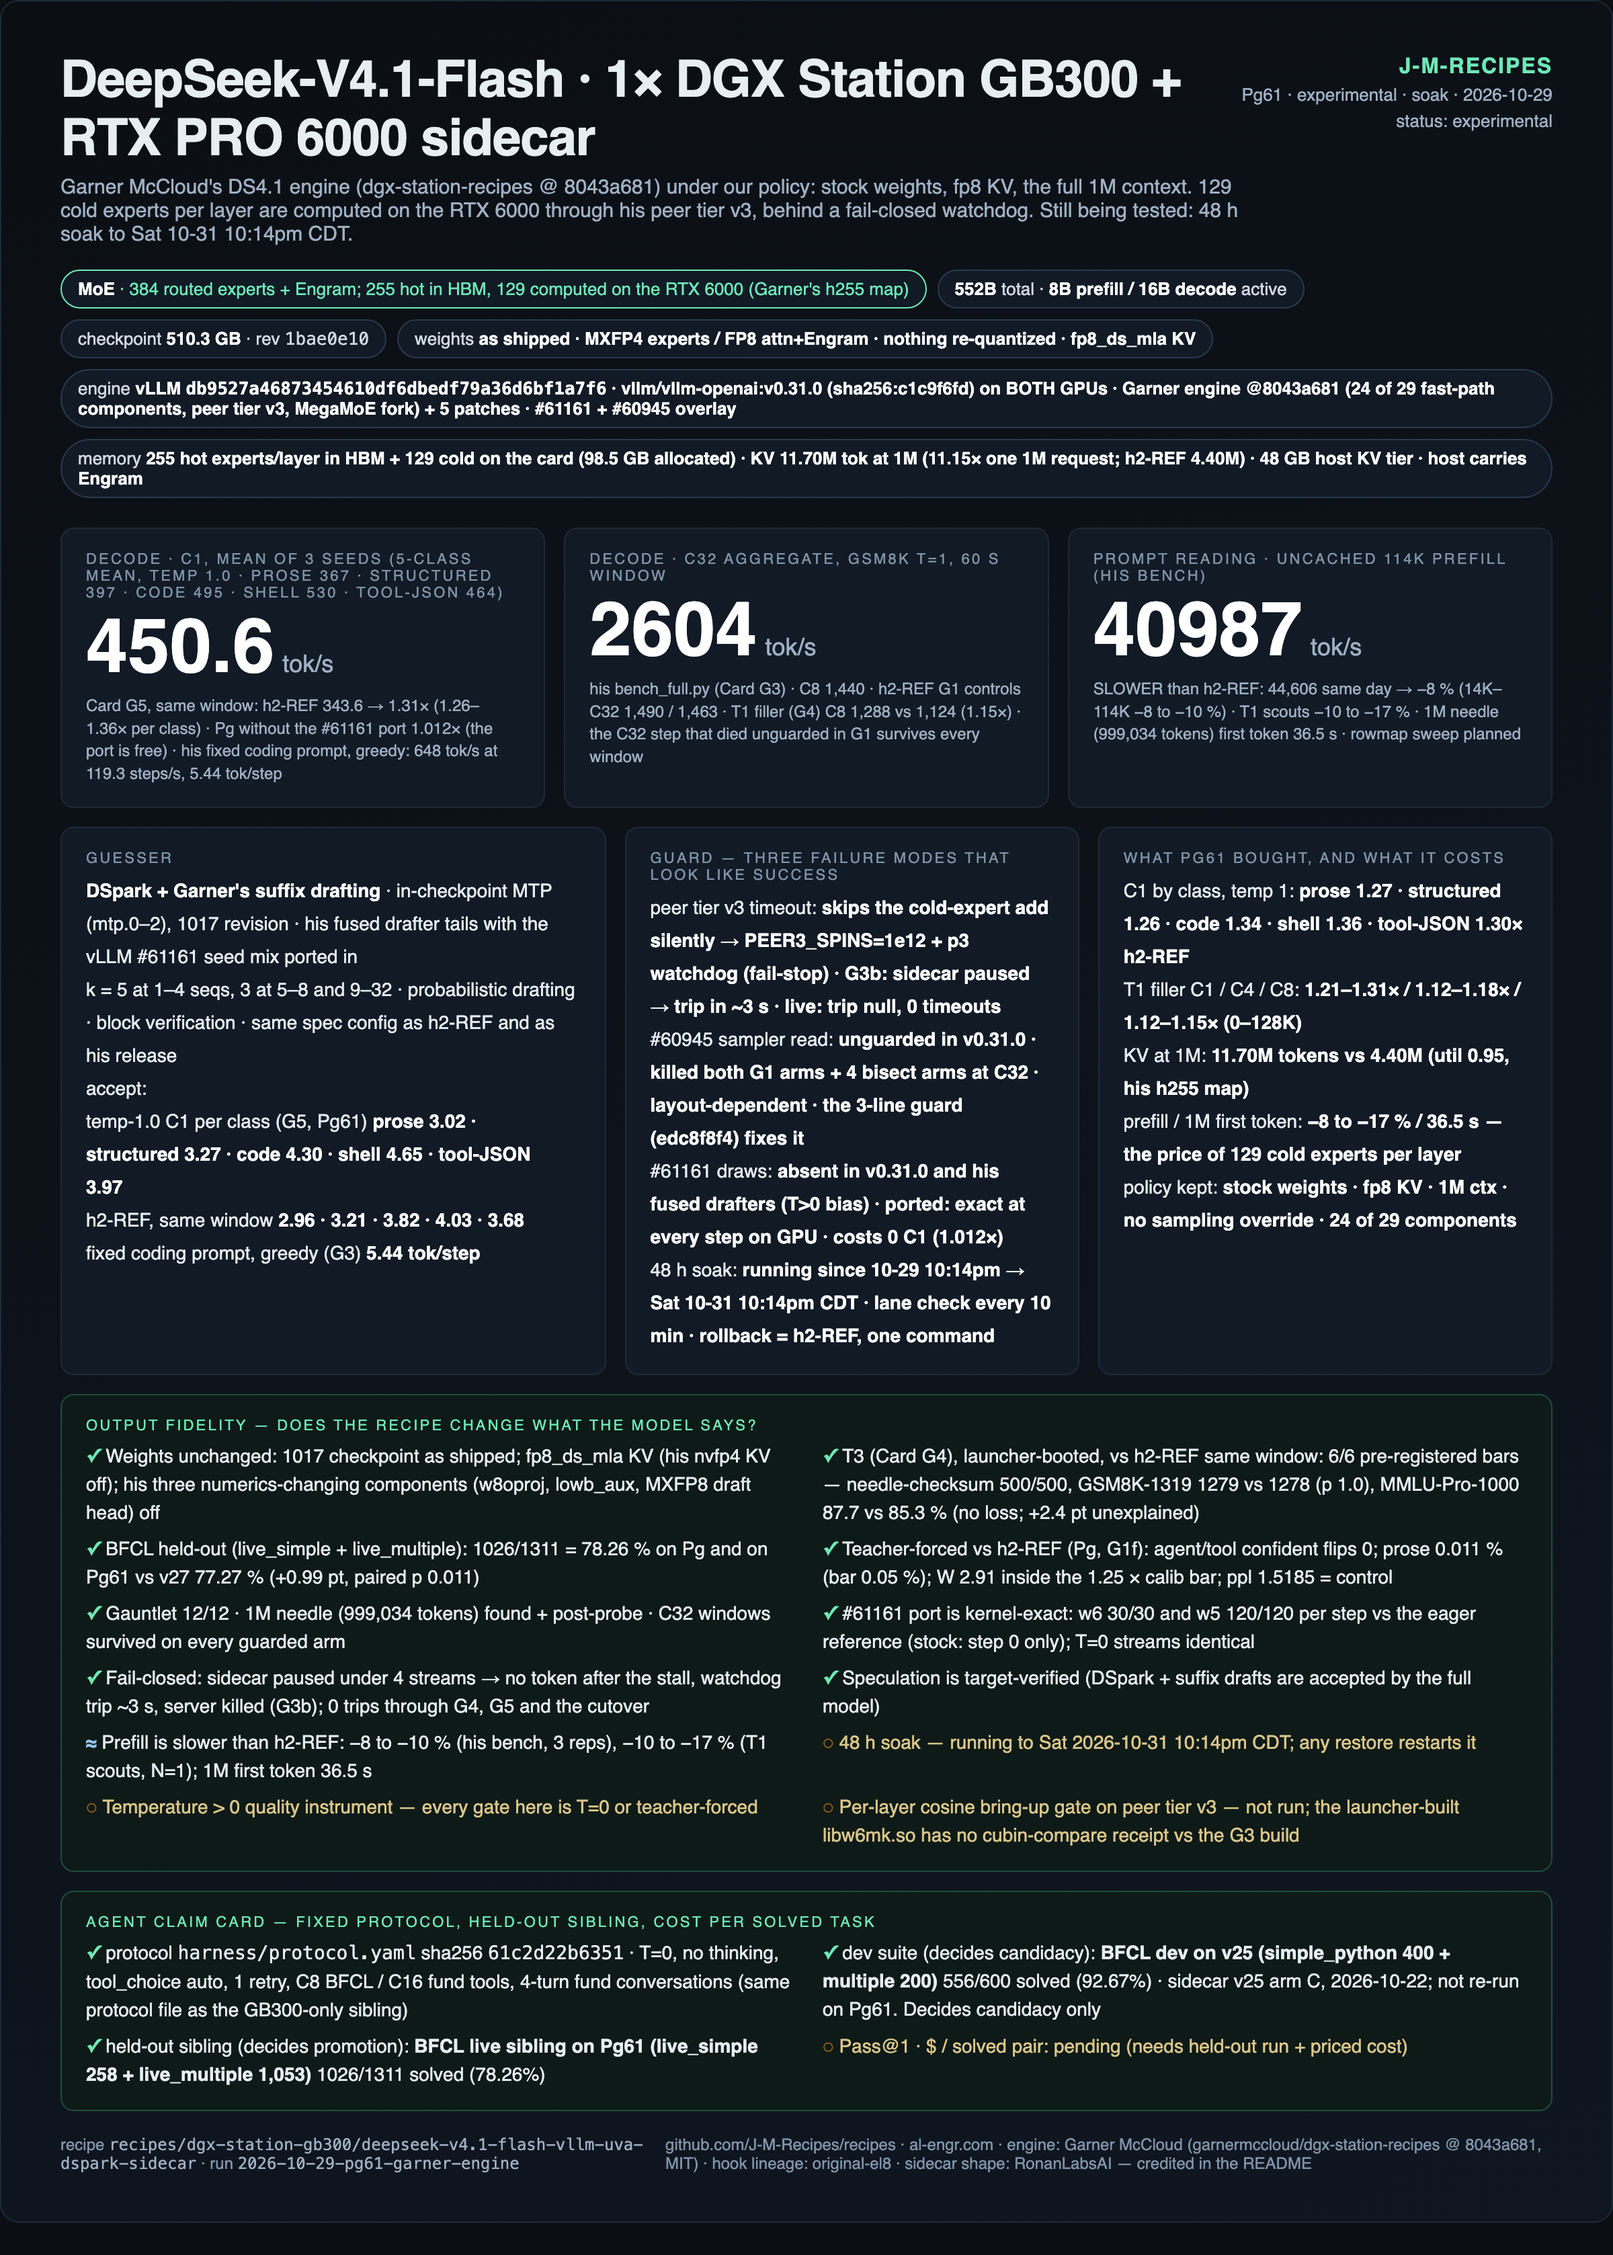
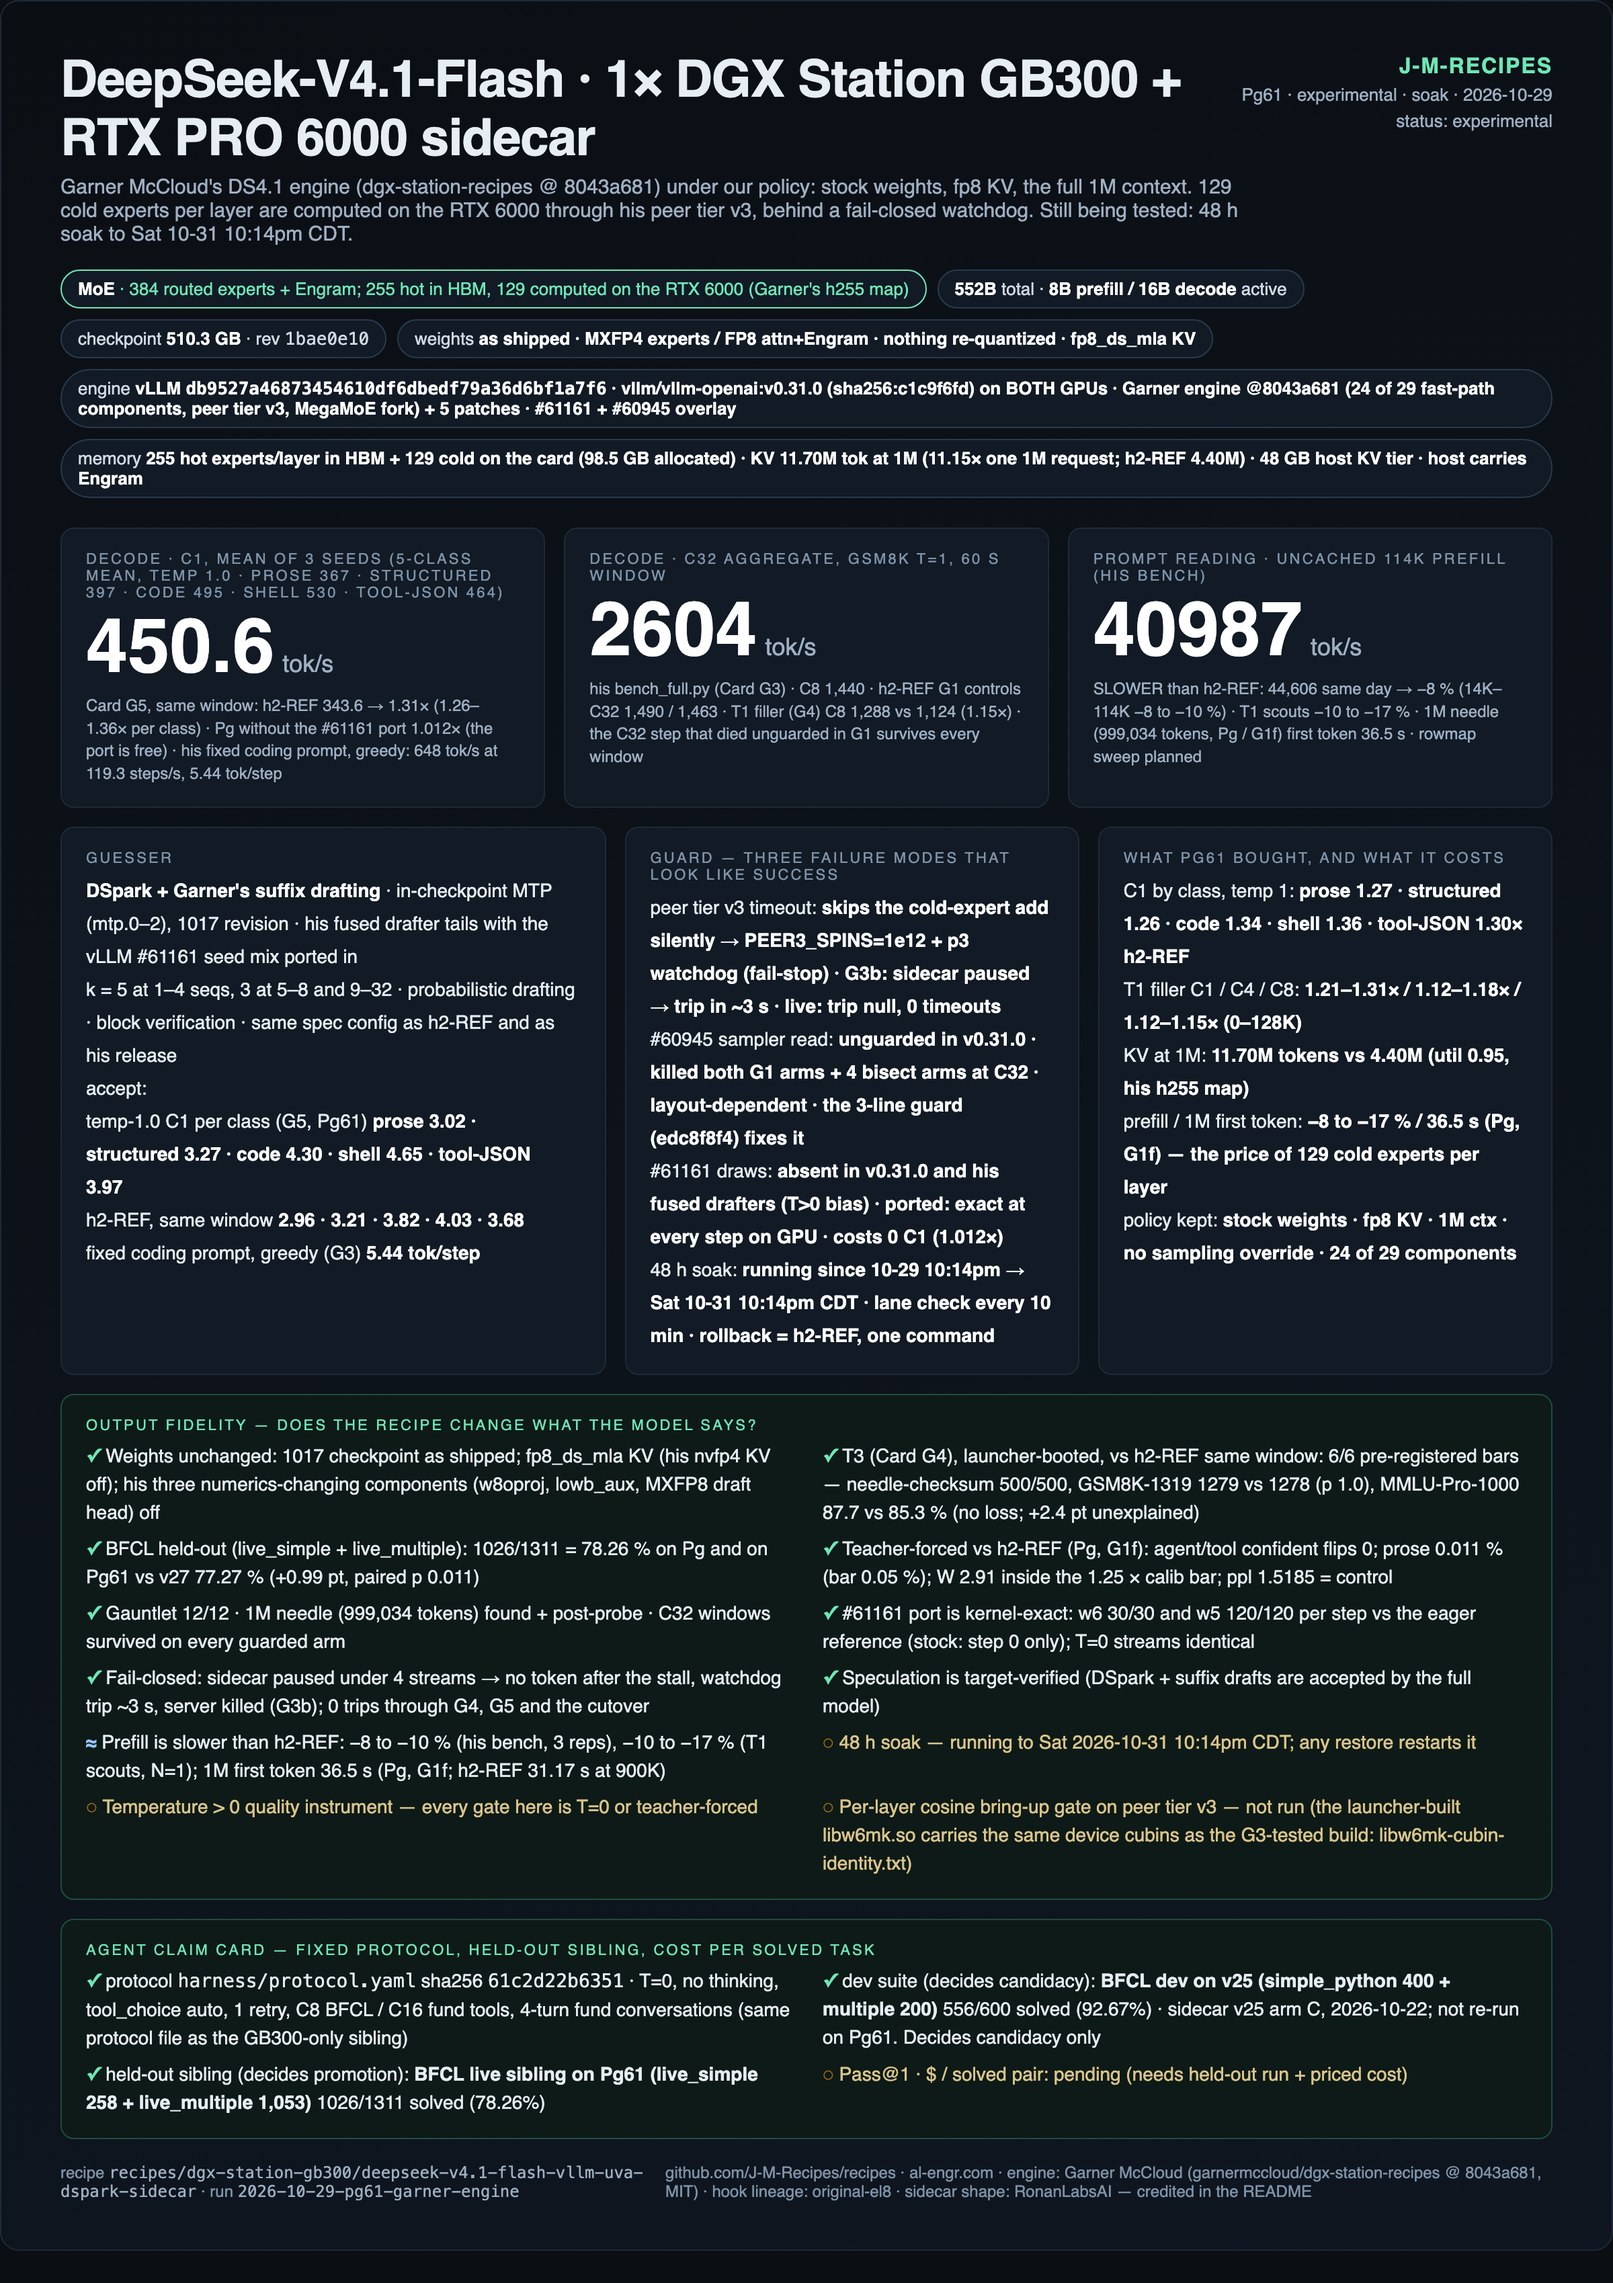
deepseek-v4.1-flash sidecar: Pg61 card fixes — label the 1M needle as Pg (G1f), cubin-identity receipt on the cosine row (#105)

diff --git a/recipes/dgx-station-gb300/deepseek-v4.1-flash-vllm-uva-dspark-sidecar/card.html b/recipes/dgx-station-gb300/deepseek-v4.1-flash-vllm-uva-dspark-sidecar/card.html
@@ -59,12 +59,12 @@
   <div class="grid">
 <div class="box"><div class="lbl">Decode · C1, mean of 3 seeds (5-class mean, temp 1.0 · prose 367 · structured 397 · code 495 · shell 530 · tool-JSON 464)</div><div class="hero">450.6<small>tok/s</small></div><div class="note">Card G5, same window: h2-REF 343.6 → 1.31× (1.26–1.36× per class) · Pg without the #61161 port 1.012× (the port is free) · his fixed coding prompt, greedy: 648 tok/s at 119.3 steps/s, 5.44 tok/step</div></div>
 <div class="box"><div class="lbl">Decode · C32 aggregate, GSM8K T=1, 60 s window</div><div class="hero">2604<small>tok/s</small></div><div class="note">his bench_full.py (Card G3) · C8 1,440 · h2-REF G1 controls C32 1,490 / 1,463 · T1 filler (G4) C8 1,288 vs 1,124 (1.15×) · the C32 step that died unguarded in G1 survives every window</div></div>
-<div class="box"><div class="lbl">Prompt reading · uncached 114K prefill (his bench)</div><div class="hero">40987<small>tok/s</small></div><div class="note">SLOWER than h2-REF: 44,606 same day → −8 % (14K–114K −8 to −10 %) · T1 scouts −10 to −17 % · 1M needle (999,034 tokens) first token 36.5 s · rowmap sweep planned</div></div>
+<div class="box"><div class="lbl">Prompt reading · uncached 114K prefill (his bench)</div><div class="hero">40987<small>tok/s</small></div><div class="note">SLOWER than h2-REF: 44,606 same day → −8 % (14K–114K −8 to −10 %) · T1 scouts −10 to −17 % · 1M needle (999,034 tokens, Pg / G1f) first token 36.5 s · rowmap sweep planned</div></div>
   </div>
   <div class="row2">
 <div class="box"><div class="lbl">Guesser</div><div class="kv"><b>DSpark + Garner&#x27;s suffix drafting</b> · in-checkpoint MTP (mtp.0–2), 1017 revision · his fused drafter tails with the vLLM #61161 seed mix ported in<br>k = 5 at 1–4 seqs, 3 at 5–8 and 9–32 · probabilistic drafting · block verification · same spec config as h2-REF and as his release<br><span class="acc">accept: <span>temp-1.0 C1 per class (G5, Pg61) <b>prose 3.02 · structured 3.27 · code 4.30 · shell 4.65 · tool-JSON 3.97</b></span> <span>h2-REF, same window <b>2.96 · 3.21 · 3.82 · 4.03 · 3.68</b></span> <span>fixed coding prompt, greedy (G3) <b>5.44 tok/step</b></span></span></div></div>
 <div class="box"><div class="lbl">Guard — three failure modes that look like success</div><div class="kv">peer tier v3 timeout: <b>skips the cold-expert add silently → PEER3_SPINS=1e12 + p3 watchdog (fail-stop) · G3b: sidecar paused → trip in ~3 s · live: trip null, 0 timeouts</b><br>#60945 sampler read: <b>unguarded in v0.31.0 · killed both G1 arms + 4 bisect arms at C32 · layout-dependent · the 3-line guard (edc8f8f4) fixes it</b><br>#61161 draws: <b>absent in v0.31.0 and his fused drafters (T&gt;0 bias) · ported: exact at every step on GPU · costs 0 C1 (1.012×)</b><br>48 h soak: <b>running since 10-29 10:14pm → Sat 10-31 10:14pm CDT · lane check every 10 min · rollback = h2-REF, one command</b></div></div>
-<div class="box"><div class="lbl">What Pg61 bought, and what it costs</div><div class="kv">C1 by class, temp 1: <b>prose 1.27 · structured 1.26 · code 1.34 · shell 1.36 · tool-JSON 1.30× h2-REF</b><br>T1 filler C1 / C4 / C8: <b>1.21–1.31× / 1.12–1.18× / 1.12–1.15× (0–128K)</b><br>KV at 1M: <b>11.70M tokens vs 4.40M (util 0.95, his h255 map)</b><br>prefill / 1M first token: <b>−8 to −17 % / 36.5 s — the price of 129 cold experts per layer</b><br>policy kept: <b>stock weights · fp8 KV · 1M ctx · no sampling override · 24 of 29 components</b></div></div>
+<div class="box"><div class="lbl">What Pg61 bought, and what it costs</div><div class="kv">C1 by class, temp 1: <b>prose 1.27 · structured 1.26 · code 1.34 · shell 1.36 · tool-JSON 1.30× h2-REF</b><br>T1 filler C1 / C4 / C8: <b>1.21–1.31× / 1.12–1.18× / 1.12–1.15× (0–128K)</b><br>KV at 1M: <b>11.70M tokens vs 4.40M (util 0.95, his h255 map)</b><br>prefill / 1M first token: <b>−8 to −17 % / 36.5 s (Pg, G1f) — the price of 129 cold experts per layer</b><br>policy kept: <b>stock weights · fp8 KV · 1M ctx · no sampling override · 24 of 29 components</b></div></div>
   </div>
   <div class="fid"><div class="lbl">Output fidelity — does the recipe change what the model says?</div>
     <ul>
@@ -76,10 +76,10 @@
 <li class="ok">#61161 port is kernel-exact: w6 30/30 and w5 120/120 per step vs the eager reference (stock: step 0 only); T=0 streams identical</li>
 <li class="ok">Fail-closed: sidecar paused under 4 streams → no token after the stall, watchdog trip ~3 s, server killed (G3b); 0 trips through G4, G5 and the cutover</li>
 <li class="ok">Speculation is target-verified (DSpark + suffix drafts are accepted by the full model)</li>
-<li class="meas">Prefill is slower than h2-REF: −8 to −10 % (his bench, 3 reps), −10 to −17 % (T1 scouts, N=1); 1M first token 36.5 s</li>
+<li class="meas">Prefill is slower than h2-REF: −8 to −10 % (his bench, 3 reps), −10 to −17 % (T1 scouts, N=1); 1M first token 36.5 s (Pg, G1f; h2-REF 31.17 s at 900K)</li>
 <li class="pend">48 h soak — running to Sat 2026-10-31 10:14pm CDT; any restore restarts it</li>
 <li class="pend">Temperature &gt; 0 quality instrument — every gate here is T=0 or teacher-forced</li>
-<li class="pend">Per-layer cosine bring-up gate on peer tier v3 — not run; the launcher-built libw6mk.so has no cubin-compare receipt vs the G3 build</li>
+<li class="pend">Per-layer cosine bring-up gate on peer tier v3 — not run (the launcher-built libw6mk.so carries the same device cubins as the G3-tested build: libw6mk-cubin-identity.txt)</li>
     </ul>
   </div>
   <div class="fid"><div class="lbl">Agent claim card — fixed protocol, held-out sibling, cost per solved task</div>

diff --git a/recipes/dgx-station-gb300/deepseek-v4.1-flash-vllm-uva-dspark-sidecar/README.md b/recipes/dgx-station-gb300/deepseek-v4.1-flash-vllm-uva-dspark-sidecar/README.md
@@ -225,7 +225,8 @@ T1 is llm-inference-bench 0.7.7 synthetic filler at the server's default tempera
 - **Prefill is slower than h2-REF.** His `bench_full.py` (uncached, median of 3) reads **−8 to −10 %** at 14K–114K
   (e.g. 114K: 41.0K vs 44.6K tok/s). The G4 T1 scout prefills (N = 1 each) read −10 to −17 % (128K: 39,775 vs
   48,062 tok/s).
-- **1M first token is 36.5 s** on a 999,034-token needle (27.3K tok/s), against **33.2 s** for the v25 base launch
+- **1M first token is 36.5 s** on a 999,034-token needle (27.3K tok/s; measured on Pg in Card G1f, before the
+  #61161 port, which does not touch prefill), against **33.2 s** for the v25 base launch
   (2026-10-22). h2-REF's own 900K needle was 31.17 s (28.9K tok/s).
 - **Probable cause, not measured:** his h255 map leaves 129 cold experts per layer on the RTX (vs 89), and steps
   with T > 64 still use peer tier v2. **A rowmap sweep (h270 / h285 under our policy) is planned after promotion**;
